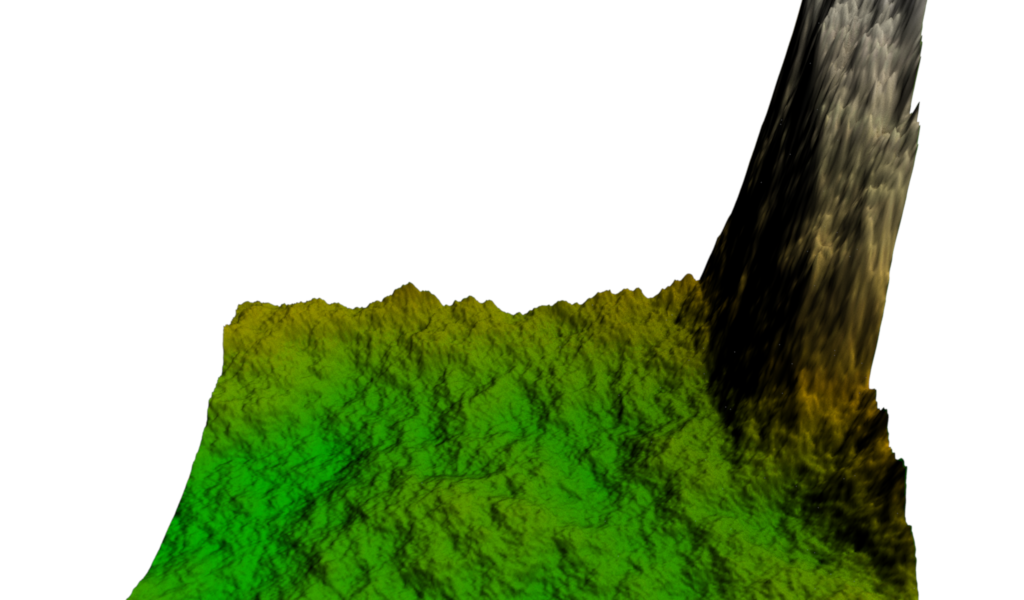
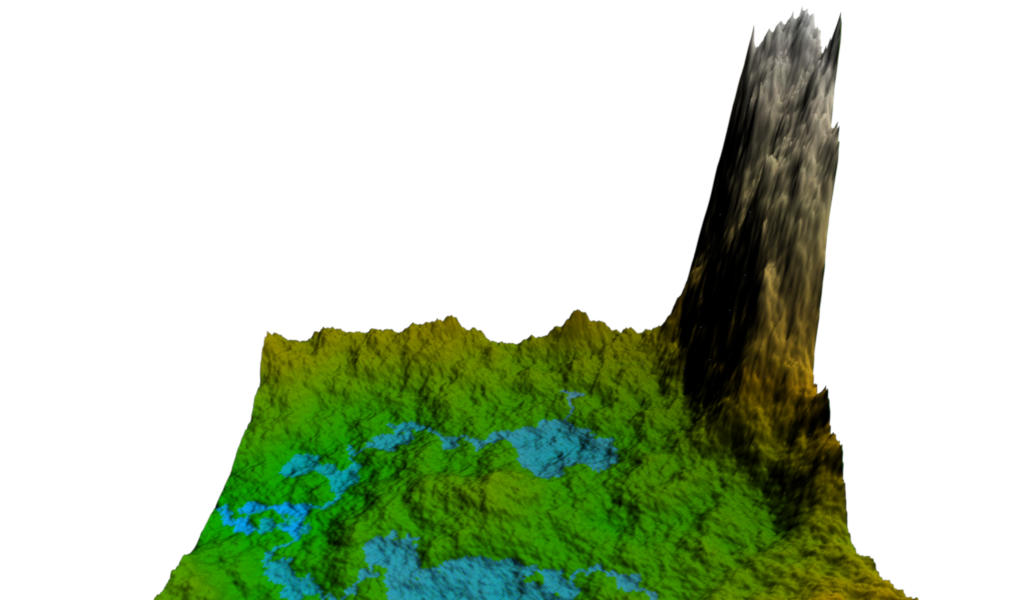
Add river

diff --git a/MatriceParam.m b/MatriceParam.m
@@ -1,0 +1,31 @@
+function [ matrice ] = MatriceParam( origine, cible )
+%UNTITLED2 Summary of this function goes here
+%   Detailed explanation goes here
+    matrice = zeros(4);
+    matrice (4,4) = 1;
+    %w : relie origine a la cible : OC
+    %t : correspond a o
+
+    %w
+    OC = cible - origine;
+    w = OC/abs(norm(OC));
+    matrice (1,3) = w(1);
+    matrice (2,3) = w(2);
+    matrice (3,3) = w(3);
+
+    %translation t
+    matrice (1,4) = origine(1);
+    matrice (2,4) = origine(2);
+    matrice (3,4) = origine(3);
+    %premiere direction u :
+    u = cross([0 0 1],w);
+    u = u/abs(norm(u));
+    matrice (1,4) = u(1);
+    matrice (2,4) = u(2);
+    matrice (3,4) = u(3);
+    %deuxieme direction v:
+    v = cross(w,u);
+    matrice (1,4) = v(1);
+    matrice (2,4) = v(2);
+    matrice (3,4) = v(3);
+end

diff --git a/CinquiemeRendu.m b/CinquiemeRendu.m
@@ -1,4 +1,4 @@
-function [ ] = QuatriemeRendu(terrain ,iter, alpha, lambda)
+function [ ] = CinquiemeRendu(terrain ,iter, alpha, lambda)
 %UNTITLED4 Summary of this function goes here
 %   Detailed explanation goes here
 
@@ -8,7 +8,7 @@ normales = ConstruitNormales(points);
 
 Exporter16(terrainFinal, 'niveaudegris.png');
 Ombrage(terrainFinal, 25 , 'colorramp.png', normales, points, [0 700 1200], 'courbeniveau2.png');
-RenderTerrain('niveaudegris.png','courbeniveau2.png','out2.png', [0 -1200 1100], [0 0 450]);
+RenderTerrainMatrix('niveaudegris.png','courbeniveau2.png','out2.png', [0 -1200 1100], [0 0 450]);
 
 end
 

diff --git a/RenderTerrainMatrix.m b/RenderTerrainMatrix.m
@@ -1,0 +1,8 @@
+function [ ] = RenderTerrainMatrix( terrain,texture,outfile,origin,target )
+    matrix = MatriceParam(origin,target)
+    repertoire = '\\servif-home\fic_eleves\Espace Pedagogique\3IF\Modeles et Outils Mathematiques\Images fondements\image\Mitsuba';
+    cmd = strcat('"',repertoire,'\mitsuba" -Dhfile=',terrain,' -Dtfile=',texture,' -Dmatrix="',sprintf('%f ',matrix),'" -o ',outfile,' texture-matrix.xml');
+    disp(cmd);
+    system(cmd);
+
+end
